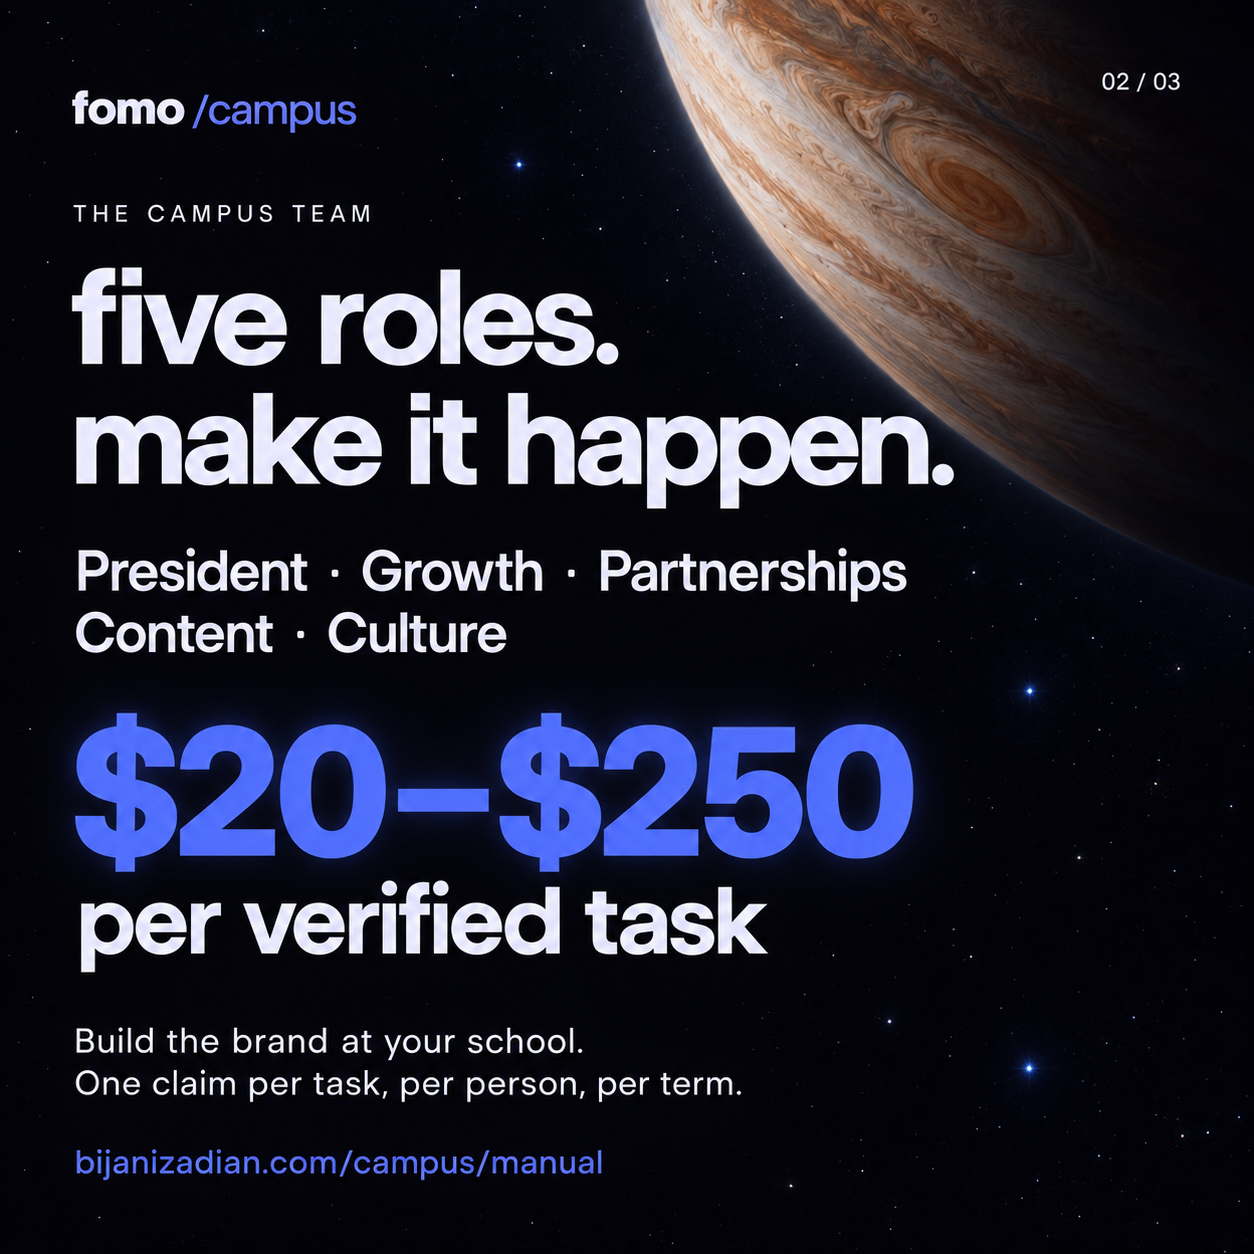
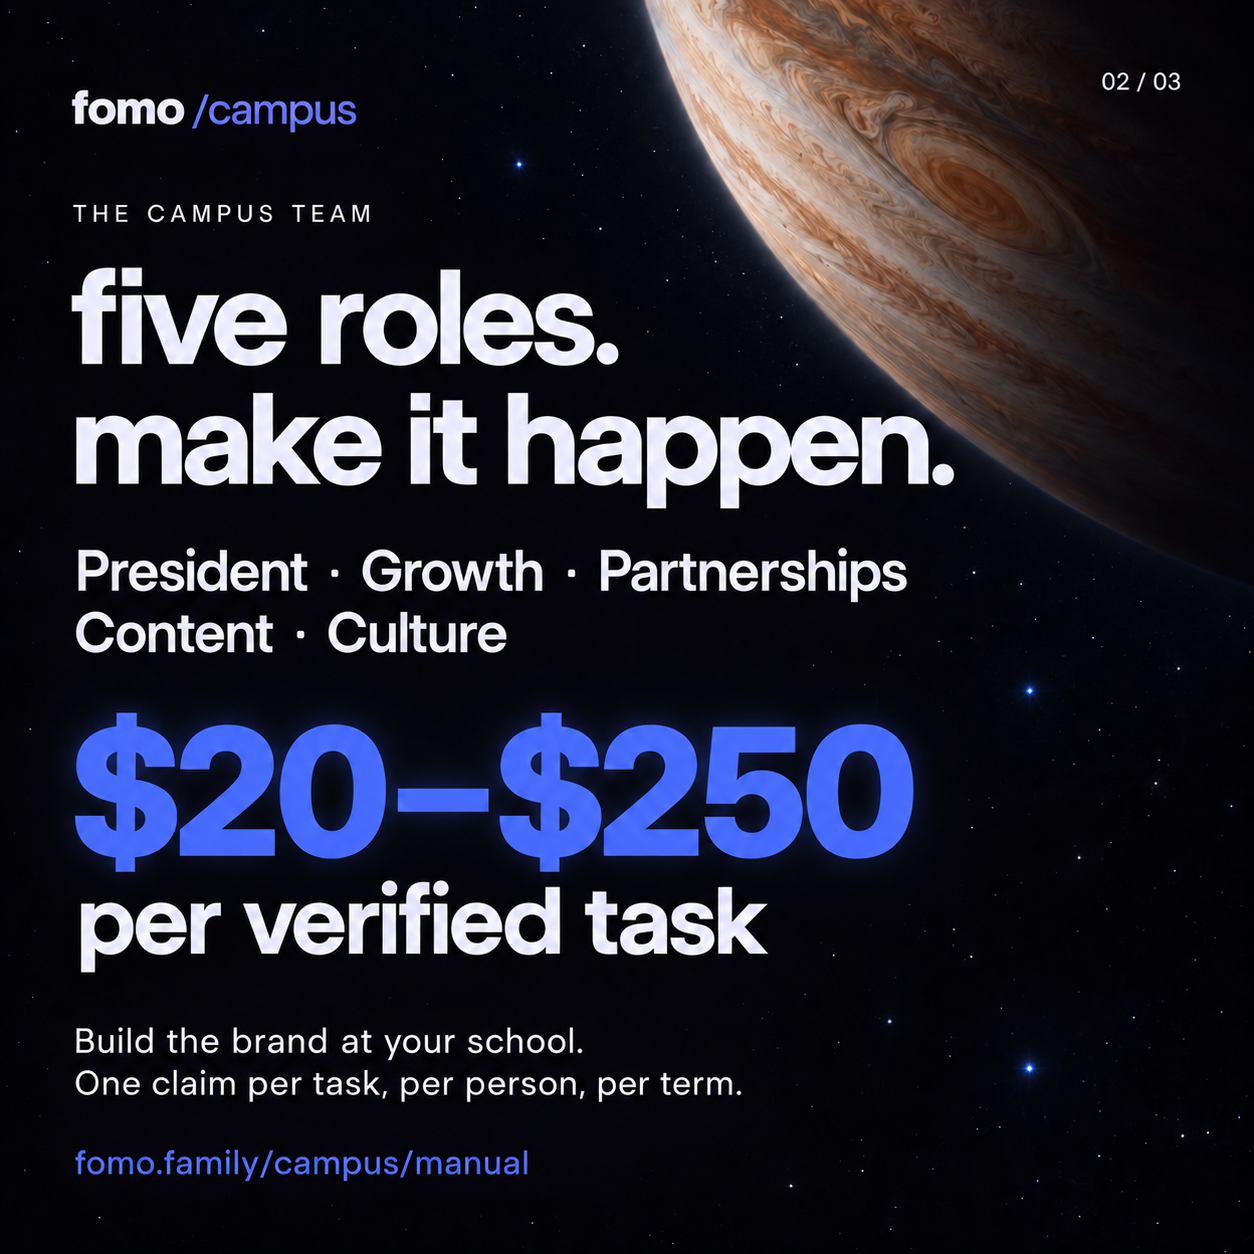
Use fomo.family URLs on campus social graphics

Changed region(s): [[0.0622, 0.9019, 0.4976, 0.9641], [0.2488, 0.8397, 0.2799, 0.8708], [0.1866, 0.8086, 0.2177, 0.8397]]

diff --git a/scripts/campus-social-prompts.md b/scripts/campus-social-prompts.md
@@ -19,7 +19,7 @@ Exact text:
 "80% onboarded"
 "18+ · Eligibility & final rules apply."
 "Trading involves risk."
-"bijanizadian.com/greekwars/invite"
+"fomo.family/greekwars/invite"
 Composition: headline across upper middle, $500 large and blue-lavender across lower middle with "for any chapter with" and "80% onboarded" directly attached on two lines, and the other lines clearly arranged underneath. Jupiter illuminates the upper-right background. The amount is the user-confirmed chapter onboarding reward, not a trading return.
 
 Correction edit prompt: In the existing Greek Wars graphic, replace only the two lines immediately below "$500" with "for any chapter with" and "80% onboarded". Preserve all other text, artwork, typography, colors and layout.
@@ -39,7 +39,7 @@ Exact text:
 "per verified task"
 "Build the brand at your school."
 "One claim per task, per person, per term."
-"bijanizadian.com/campus/manual"
+"fomo.family/campus/manual"
 Composition: the five roles are clearly readable in two short rows, not a dense paragraph. Large blue-lavender $20–$250 amount below, with per verified task directly below and clearly attached. Money is task rewards, not salary, so do not add salary claims. A slightly darker Jupiter crescent remains in the upper-right background. All names and dollar amounts must match exactly.
 
 ## 03-dinner-series
@@ -57,5 +57,7 @@ Exact text:
 "covered per approved table"
 "Restaurant paid directly."
 "18+ · Hosting approval required."
-"bijanizadian.com/dinners"
+"fomo.family/dinners"
 Composition: preserve the same space/Jupiter background, with a warm copper glow subtly recalling candlelight. UP TO immediately above very large blue-lavender $1,200, with covered per approved table clearly attached below. It is a dinner budget paid to a restaurant, not cash earnings, and that distinction must remain clear. No people or food photographs, just powerful typography and restrained cosmic imagery.
+
+Footer-domain edit prompt: In each existing graphic, change only the printed footer domain from "bijanizadian.com" to "fomo.family", preserving its path: "/greekwars/invite", "/campus/manual" or "/dinners". Preserve all other text, artwork, typography, colors and layout, including the Greek Wars reward "$500 / for any chapter with / 80% onboarded".
